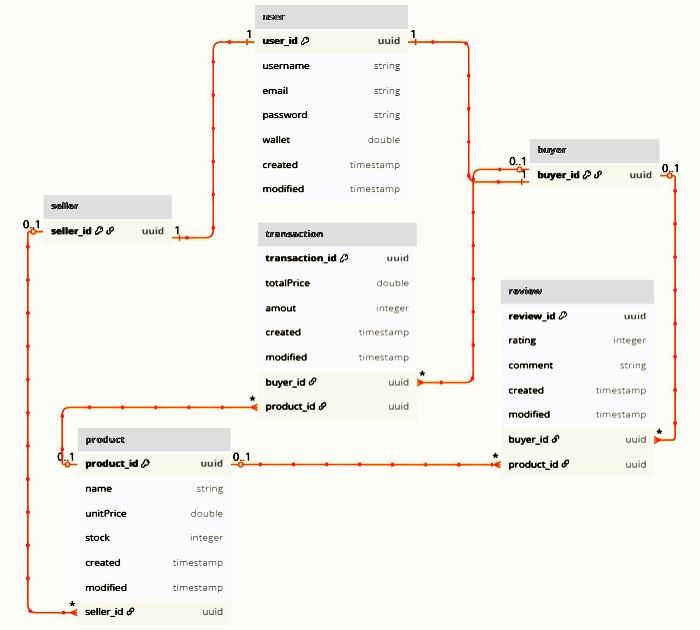
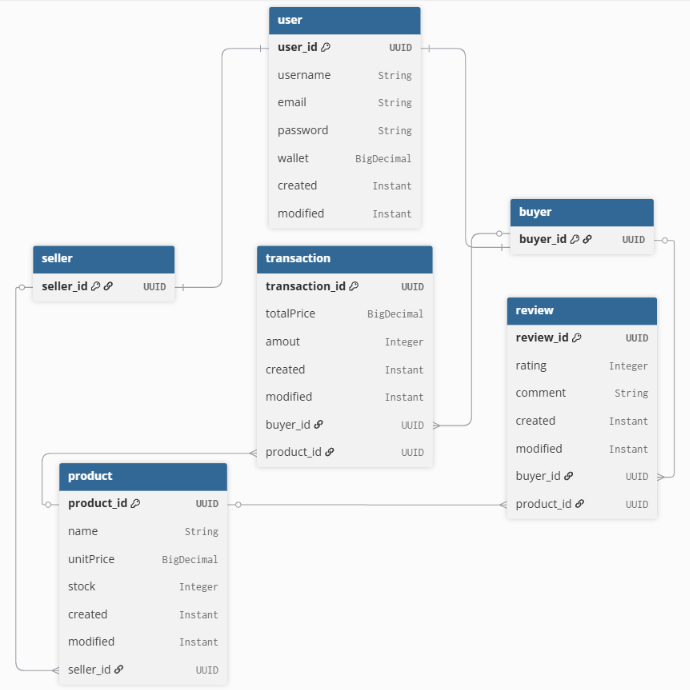
docs: update README with new images and details

Changed region(s): [[0.0304, 0.0, 0.9739, 0.9952], [0.2739, 0.9651, 0.3348, 0.9952]]

diff --git a/README.md b/README.md
@@ -1,4 +1,4 @@
-![marketplace-api](img/marketplace-api.jpg)
+![marketplace-api](assets/marketplace-api.jpg)
 
 ---
 
